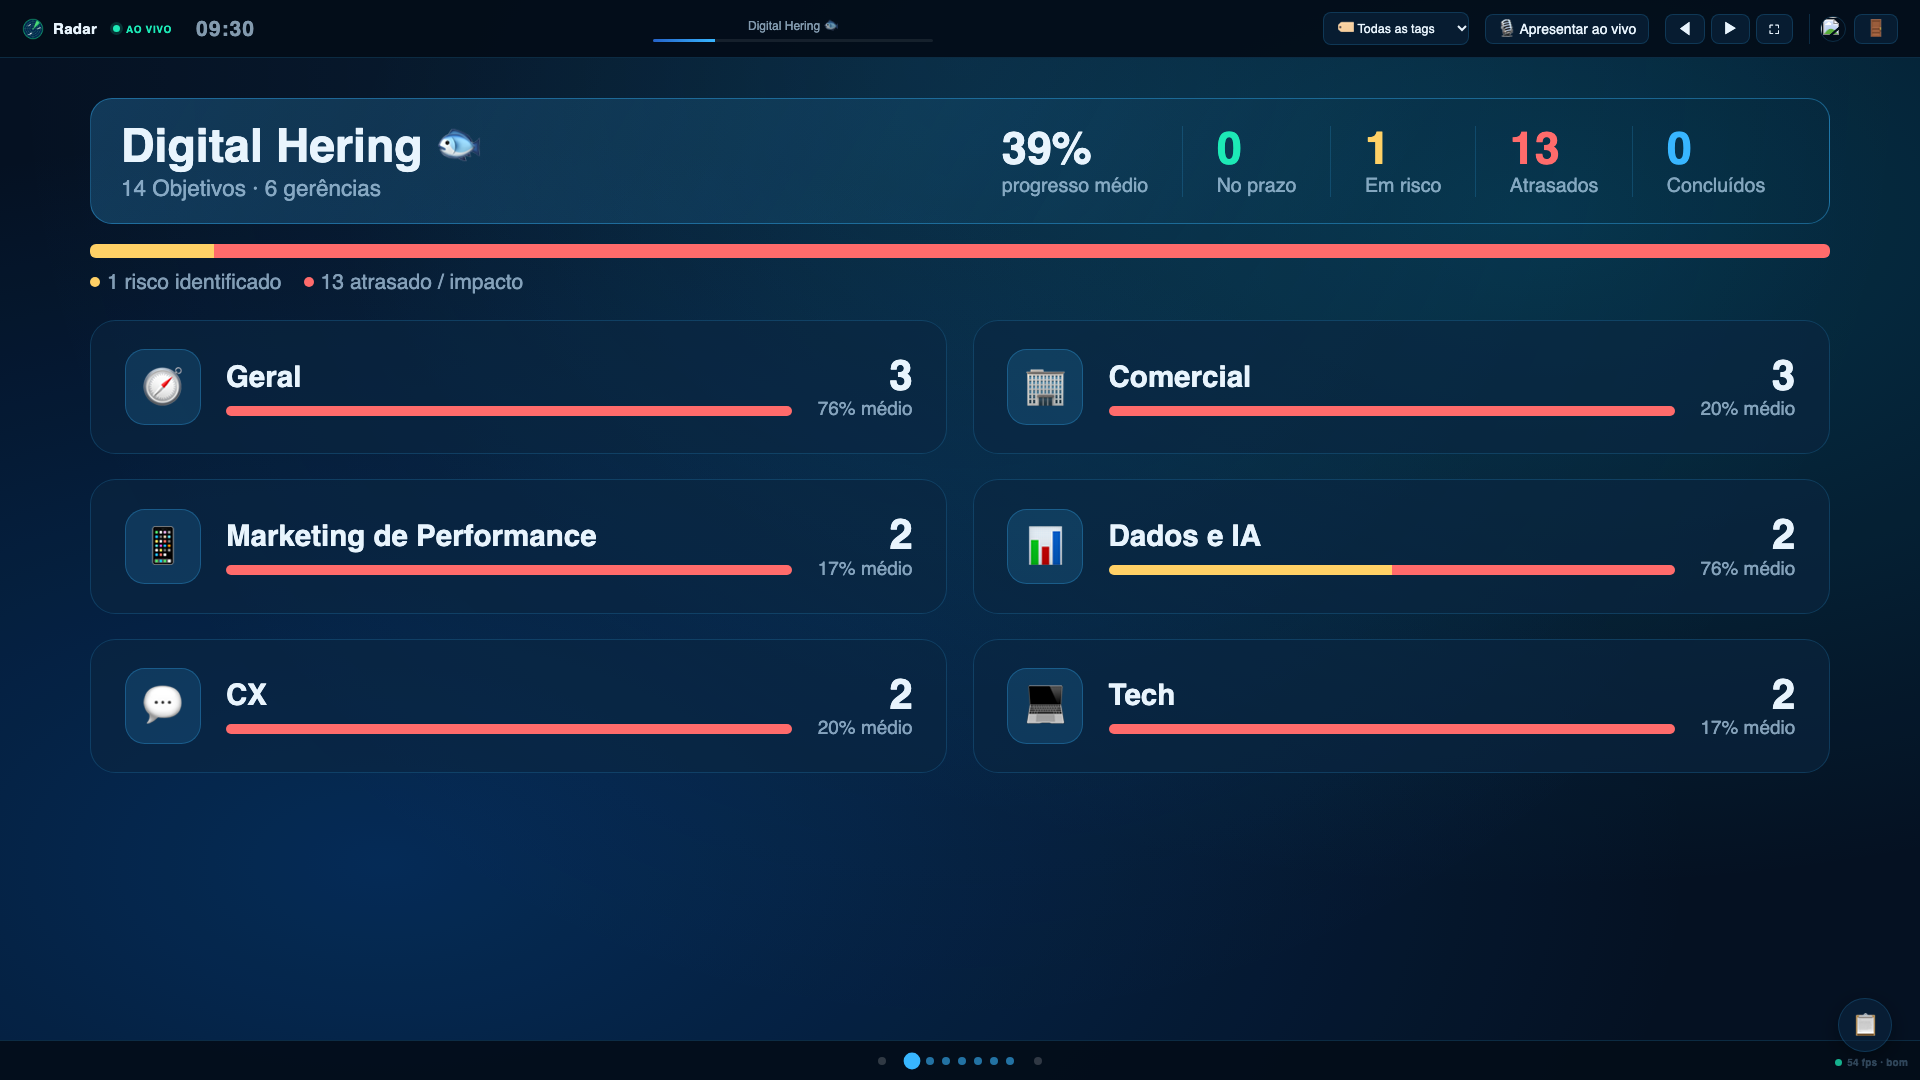
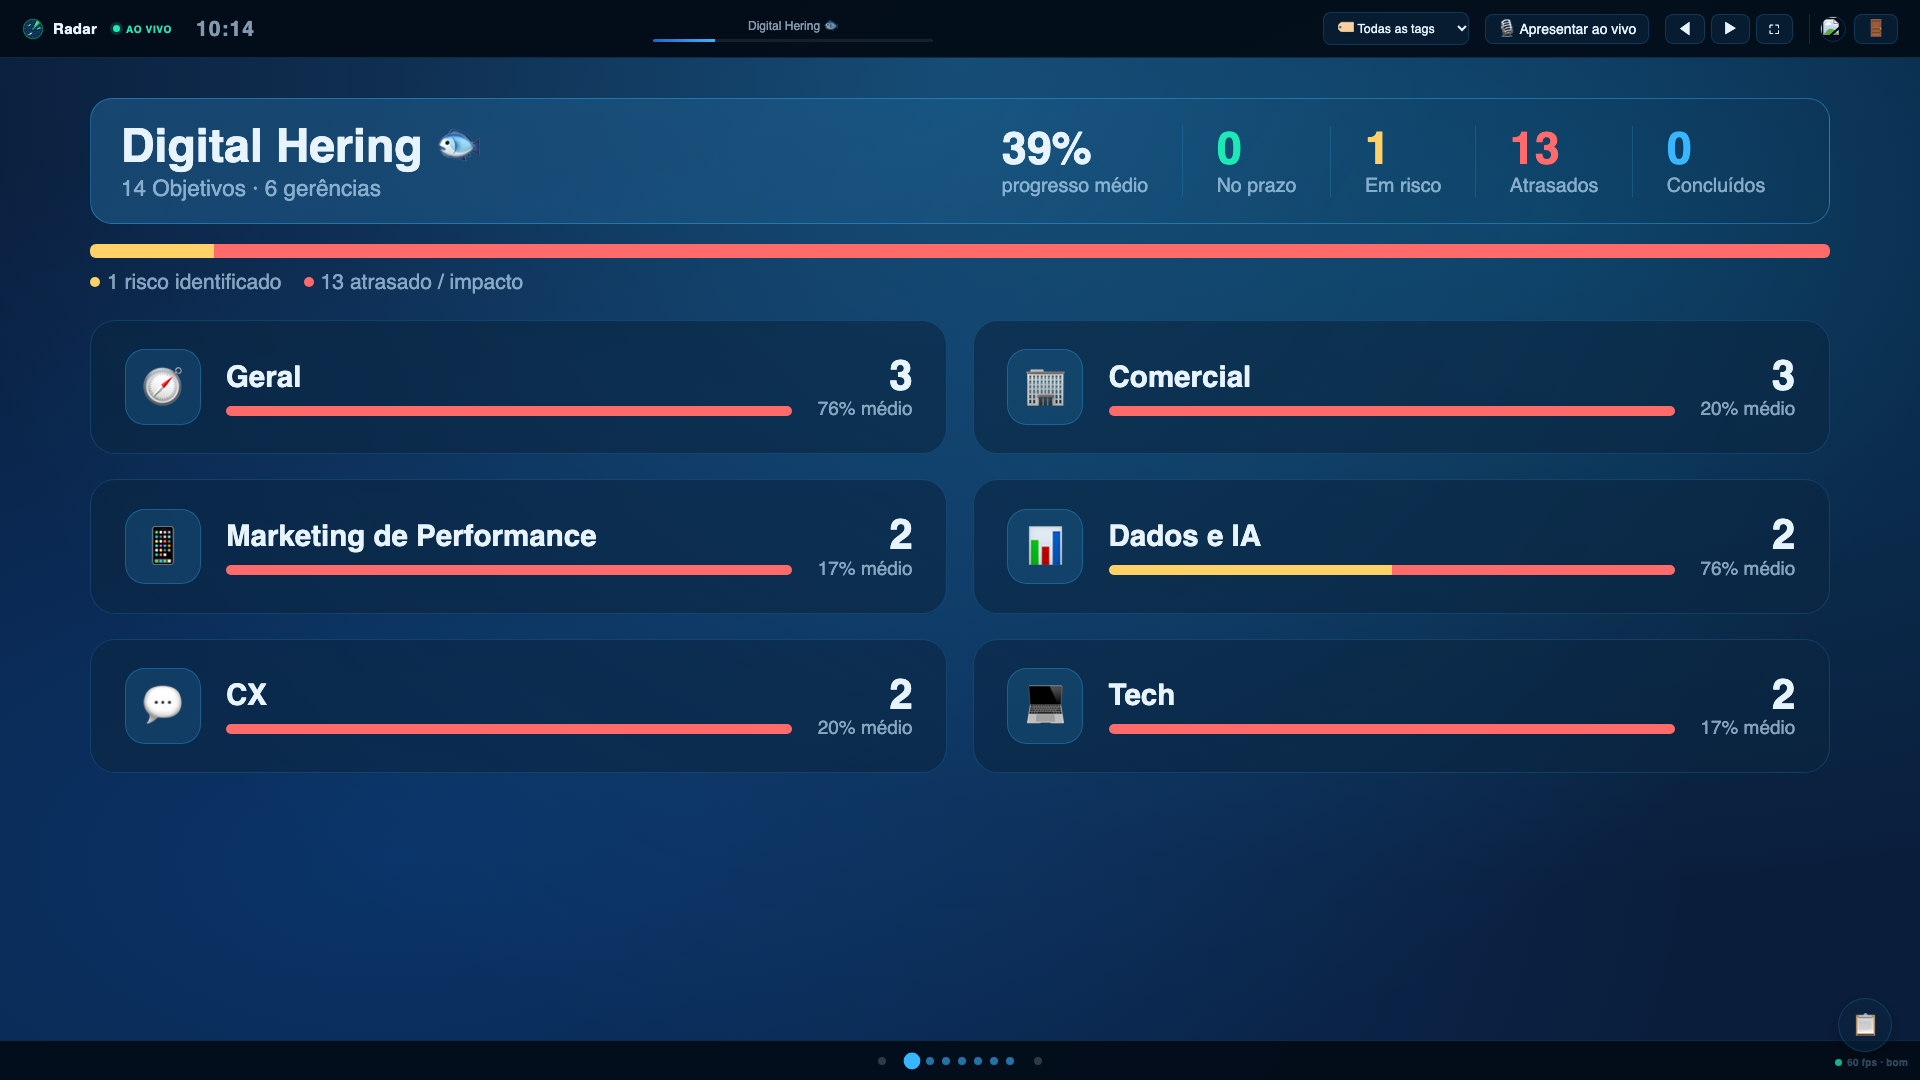
fix(apresentacao): slides pares com mais contraste (.10 → .24) — a 1ª versão sumia no projetor
Agent: claude

diff --git a/okr-apresentacao.slide.html b/okr-apresentacao.slide.html
@@ -113,7 +113,7 @@ h1,h2,h3,.syne{font-family:'Syne',sans-serif;}
 /* Slides alternados (pedido do Caio, 12/11/2026): os pares ganham um azul um pouco mais claro, para quem assiste perceber a troca de slide.
    Só cor de fundo (sem backdrop-filter nem animação: o slide parado continua sem custo de GPU — ver a rodada de fps de 06/11). Conta pela
    posição no #slides, então a capa é ímpar e a alternância segue a ordem em que os slides passam. */
-.slide:nth-child(even){background:radial-gradient(ellipse at 50% 0%,rgba(56,182,255,.10) 0%,transparent 70%),rgba(37,99,201,.10);}
+.slide:nth-child(even){background:radial-gradient(ellipse at 50% 0%,rgba(56,182,255,.24) 0%,transparent 75%),rgba(37,99,201,.24);}   /* 12/11: .10 → .24, a 1ª versão sumia no projetor */
 .slide-inner{max-width:min(1740px,100%);margin:0 auto;width:100%;transform-origin:top center;}
 /* Entrada do slide (GUIA_UI_UX §2.4, regime experiência): só quando alguém navega, uma vez; nunca em atualização de dado.
    fill backwards: depois de entrar não prende o transform (o :hover dos cartões continua valendo). Nada anima o .slide-inner (é onde mora o zoom do ajuste).

diff --git a/CHANGELOG.md b/CHANGELOG.md
@@ -30,6 +30,7 @@ completo, incluindo commits antigos sem PR/descrição detalhada).
 - Os slides **pares** ganham um azul um pouco mais claro (fundo com brilho suave no topo); os ímpares continuam no oceano escuro. Conta pela ordem em que os slides passam (a capa é ímpar).
 - Só cor de fundo: sem `backdrop-filter` nem animação, então o slide parado continua sem custo de GPU (rodada de fps de 06/11).
 - Conferido a 1920×1080 com dados de exemplo: slides 0–3 alternando, sem erro de JS, 54–60 fps.
+- **12/11, ajuste:** a 1ª versão (tom `.10`) quase não aparecia no projetor; o azul dos pares subiu para `.24`.
 
 ### A Bordo ligado ao Guia do Maré (PROD 11/11 · onboarding.html, no ar com o merge #1734) — 2026-11-11
 
